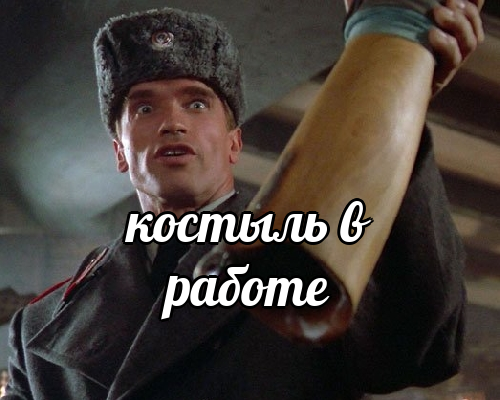
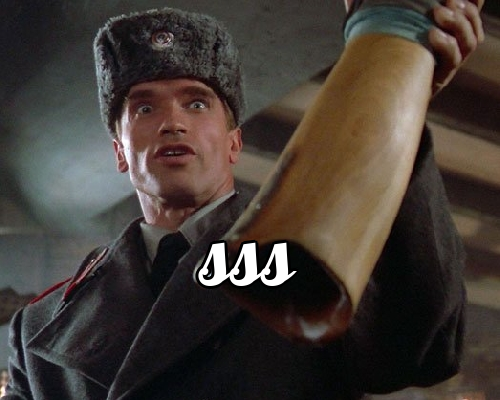
added crutch to send photos and save photos

Changed region(s): [[0.24, 0.48, 0.75, 0.81]]

diff --git a/bot.py b/bot.py
@@ -34,7 +34,6 @@ class MemeMkrBot:
         self.updater = Updater(token, use_context=True,
                                request_kwargs=request_kwargs)
 
-        # UPDATER.bot.send_photo('352593518', file)
         self.dp = self.updater.dispatcher
 
         self.dp.add_handler(CommandHandler("start", self.start))
@@ -58,11 +57,16 @@ class MemeMkrBot:
     def inlinequery(self, update, context):
         """Handle the inline query."""
         query = update.inline_query.query
-        MEME_PATH = generate_image(query)
+        msg = self.updater.bot.send_message(chat_id='352593518', text='test')
+        self.updater.bot.delete_message(chat_id='352593518',
+                                        message_id=msg.message_id)
+        name = msg.chat['username']
+        MEME_PATH = generate_image(query, name)
         msg = self.updater.bot.send_photo(chat_id='352593518',
                                           photo=open(MEME_PATH, "rb"))
         file_id = msg.photo[0].file_id
-        print(MEME_PATH)
+        self.updater.bot.delete_message(chat_id='352593518',
+                                        message_id=msg.message_id)
 
         results = [
             InlineQueryResultCachedPhoto(
@@ -72,9 +76,10 @@ class MemeMkrBot:
 
         update.inline_query.answer(results)
 
-    def error(update, context):
+    def error(self, update, context):
         """Log Errors caused by Updates."""
         logger.warning('Update "%s" caused error "%s"', update, context.error)
+
 
 """
 def start_bot():
@@ -116,4 +121,3 @@ if __name__ == '__main__':
     init_memelib()
     init_fonts()
     bot = MemeMkrBot()
-

diff --git a/inscript.py b/inscript.py
@@ -102,7 +102,7 @@ def init_fonts() -> None:
 
 
 def __image_processing(tag: str = 'kokainum',
-                       message: list = ['hello']) -> str:
+                       message: list = ['hello'], name: str = 'meme', ) -> str:
     """
     The basic function for image processing,
     calls separate methods for different tags
@@ -133,8 +133,8 @@ def __image_processing(tag: str = 'kokainum',
                                         FONTS['Lobster'],
                                         message[1], stroke_offset=7)
         img = __create_image(img, [inscription1, inscription2]).convert('RGB')
-    img.save('meme.png')
-    return os.path.abspath('meme.png')
+    img.save(name+'.png')
+    return os.path.abspath(name+'.png')
 
 
 def __create_image(img: Image.Image, inscription: list):
@@ -159,7 +159,7 @@ def __parse_query(raw_query: str):
     return tag, message
 
 
-def generate_image(query: str):
+def generate_image(query: str, name: str = 'meme'):
     tag, message = __parse_query(query)
-    result = __image_processing(tag, message)
+    result = __image_processing(tag, message, name)
     return result
